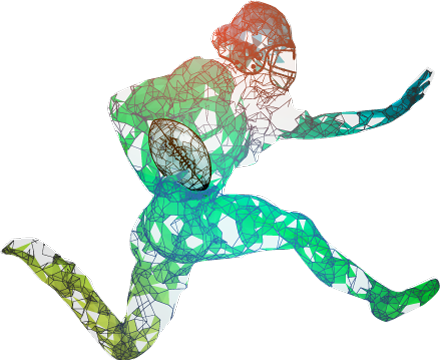
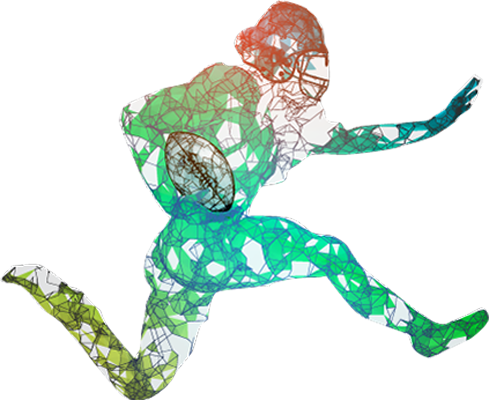
responsive swap

diff --git a/sunday.html b/sunday.html
@@ -144,6 +144,9 @@ h1.smoking {
 .sport.four {
 	margin: 190px 0 0px 40px;
 }
+.sport.five {
+	margin: 0 0 30px 0;
+}
 .item-wrapper {
 	display: flex;
 	align-items: center;
@@ -173,8 +176,21 @@ h1.smoking {
 	display: none;
 }
 }
-	@media (max-width: 1010px) {
-.sport.three {
+
+@media (max-width: 1010px) {
+.sport.two, .sport.three {
+	display: none;
+}
+.link-wrapper {
+	margin: 30px auto 30px auto;
+}
+.sport.five {
+	padding: 0 15px 0 15px;
+}
+}
+
+@media (min-width: 1009px) {
+.sport.five {
 	display: none;
 }
 }
@@ -379,10 +395,11 @@ height="0" width="0" style="display:none;visibility:hidden"></iframe>
       <h1>This is link number three</h1>
     </div>
     <div class="sports-wrapper">
-      <div class="sport one"><img class="" src="basketball.png" alt="Basketball"></div>
-      <div class="sport two"><img class="" src="volleyball-football.png" alt="Volleyball & Football"></div>
-      <div class="sport three"><img class="" src="soccer.png" alt="American Soccer"></div>
-      <div class="sport four"><img class="" src="golf.png" alt="Golf"><!-- really a sport?--></div>
+      <div class="sport one"><img src="basketball.png" alt="Basketball"></div>
+      <div class="sport two"><img src="volleyball-football.png" alt="Volleyball & Football"></div>
+      <div class="sport three"><img src="soccer.png" alt="American Soccer"></div>
+      <div class="sport four"><img src="golf.png" alt="Golf"><!-- really a sport?--></div>
+      <div class="sport five"><img class="img-responsive" src="football.png" alt="Football"></div>
     </div>
   </div>
   <!-- InstanceEndEditable --> </div>
